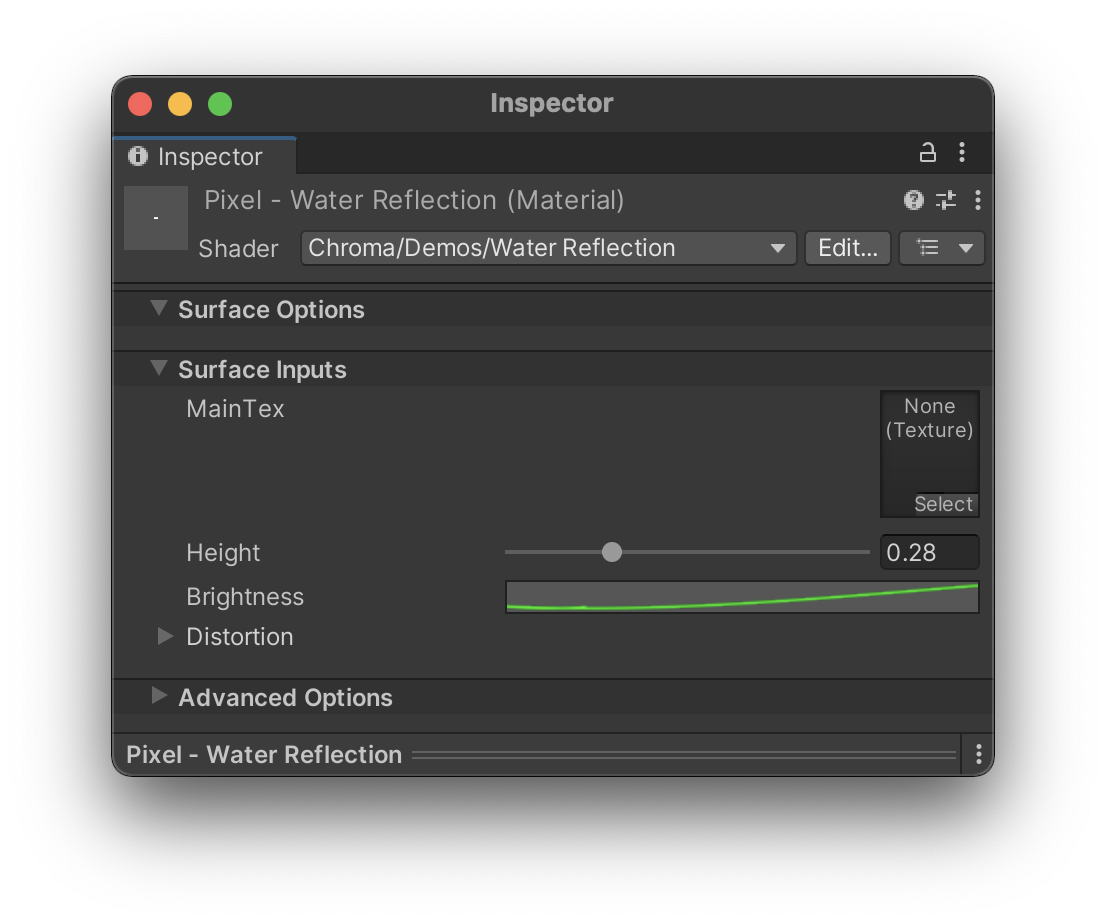
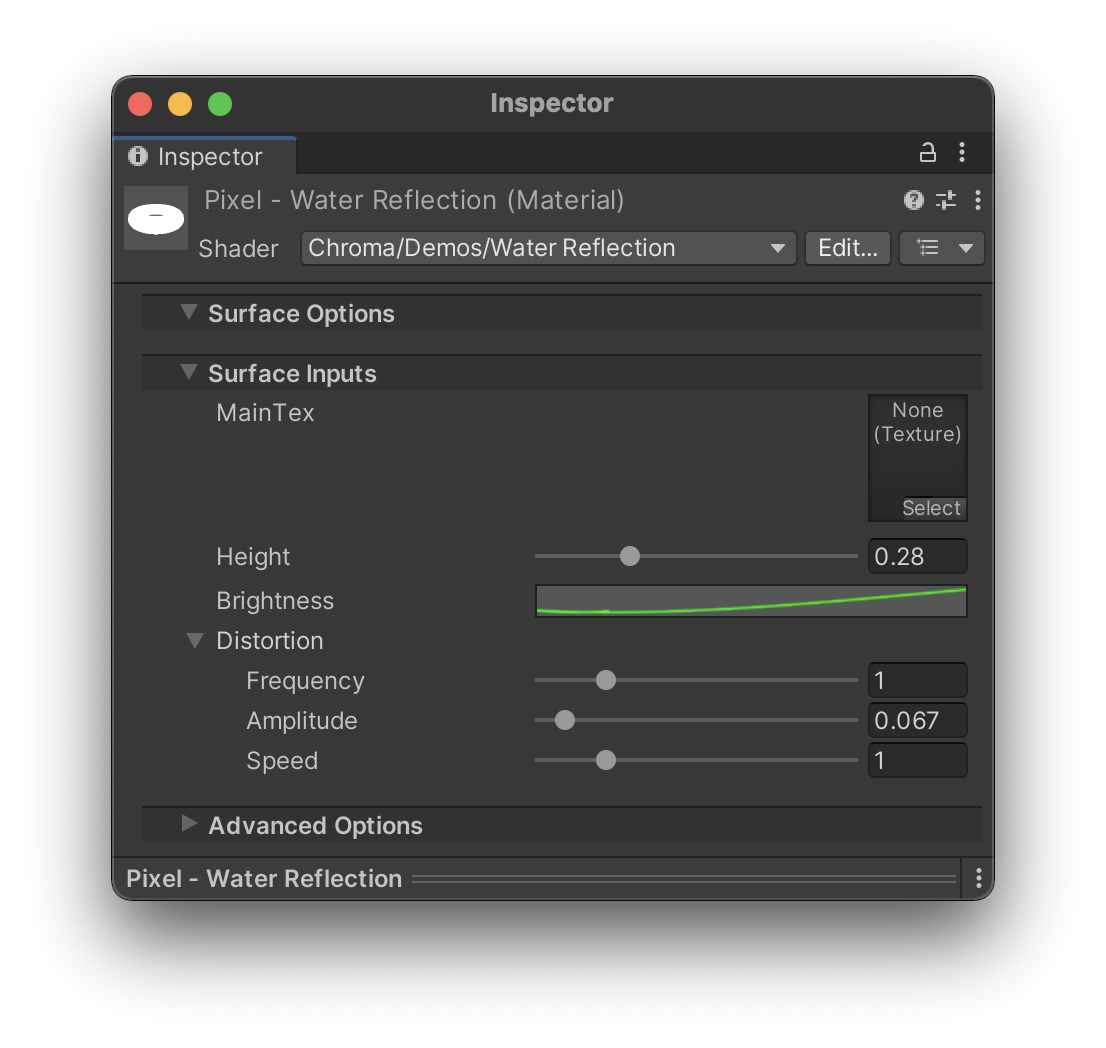
Example shaders page

Changed region(s): [[0.0922, 0.0606, 0.9222, 0.4545], [0.0922, 0.5152, 0.9222, 0.9091], [0.4611, 0.3636, 0.8915, 0.7576]]

diff --git a/_docs/140.example-shaders.md b/_docs/140.example-shaders.md
@@ -1,19 +1,66 @@
 ---
-title: "Curve"
-permalink: /curve/
-excerpt: "Curve"
+title: "Example Shaders"
+permalink: /example-shaders/
+excerpt: "Example Shaders"
 ---
 
 ## Overview
 
-_Curve_ is a shader parameter that allows you to set a curve in the inspector and sample it in your shader. It's a great way to control lots of different properties with a single property.
+Example shaders are the shaders that are made during the preparation of the [Chroma Demos](/demo-scenes/). We included them so that you can dissect them and learn how to use the features of Chroma. Also, they are already nicely featured and can be used as a starting point for your own shaders or already complete shaders for your projects. 
 
-![Curve Editor example](../assets/images/docs/interface/curve-example.png){: .style="width: 400px;"}
+## Example Shaders Included
 
-Each curve represents a continuous function that maps a value between 0 and 1 to any floating-point value. They are defined by a set of control points. The control points are defined by a time and a value. The time is the position of the control point on the x-axis and the value is the position of the control point on the y-axis. The curve is defined by the control points and the interpolation between them.
+### Gradient Shading
 
-## Adding a Curve to a Shader
+![](../assets/images/manual_images/chroma-example-shaders-gradient-shading.png)
 
-For a detailed example of how to use curves in shaders, please refer to the following pages:
-- [Use in Shader Graph](/shader-graph-nodes/)
-- [Use in Code Shaders](/code-shader-macros/)
+A simple gradient shader.
+
+### Simple Gradient
+
+![](../assets/images/manual_images/chroma-example-shaders-simple-gradient.png)
+
+A simple gradient shader that uses the Chroma's [`Gradient` node](/gradient/#adding-a-gradient-to-a-shader) to create a gradient. Such a shader was built from scratch in [this video](/shader-graph-nodes/#adding-a-gradient-to-a-shader-graph)
+
+### Height Gradient
+
+![](../assets/images/manual_images/chroma-example-shaders-height-gradient.png)
+
+A more advanced gradient shader with an option of the height gradient and its various parameters. _Blend Mode_ parameter is particularly useful here.
+
+### Character
+
+![](../assets/images/manual_images/chroma-example-shaders-chroma-character.png)
+
+A shader that is used in the [Chroma Character](/demo-scenes/#character-scene) Demo. It has a similar feature set to the [Height Gradient](/example-shaders/#height-gradient) shader with an addition of the Displacement [Curve](/curve/).
+
+### Fog Portal
+
+![](../assets/images/manual_images/chroma-example-shaders-chroma-portal.png)
+
+A shader from the [Cave](/demo-scenes/#cave-scene) Demo scene. It is used for a particular effect for the portals in the cave, when upon approaching to them, they lower their opacity. The parameters can be set in many various combinations that greatly exceed the intended effect for this shader.
+
+### Color Remap
+
+![](../assets/images/manual_images/chroma-example-shaders-color-remap.png)
+
+From the [Pixel](/demo-scenes/#pixel-scene) Demo scene. With the gradient input, you can create a color remap effect.
+
+### Water Reflection
+
+![](../assets/images/manual_images/chroma-example-shaders-water-reflection.png)
+
+From the [Pixel](/demo-scenes/#pixel-scene) Demo scene. Made just for fun, to make the water look like a mirror, with options to make it less linear with _Brightness_ parameter and less static using the _Distortion_ parameters.
+
+### Grass Plane
+
+![](../assets/images/manual_images/chroma-example-shaders-grass-plane.png)
+
+From the [Grass](/demo-scenes/#grass-plane-scene) Demo scene. A shader that is used on a simple custom plane mesh, which turned it into a grass-looking result. This shader is packed with various [Curve](/curves/) that control the main parameters in a non-linear way.
+
+### Skybox
+
+![](../assets/images/manual_images/chroma-example-shaders-skybox.png)
+
+From most of the Demo scenes. A shader that is used for the skybox with a [Gradient](/gradient/#adding-a-gradient-to-a-shader) color input. 
+
